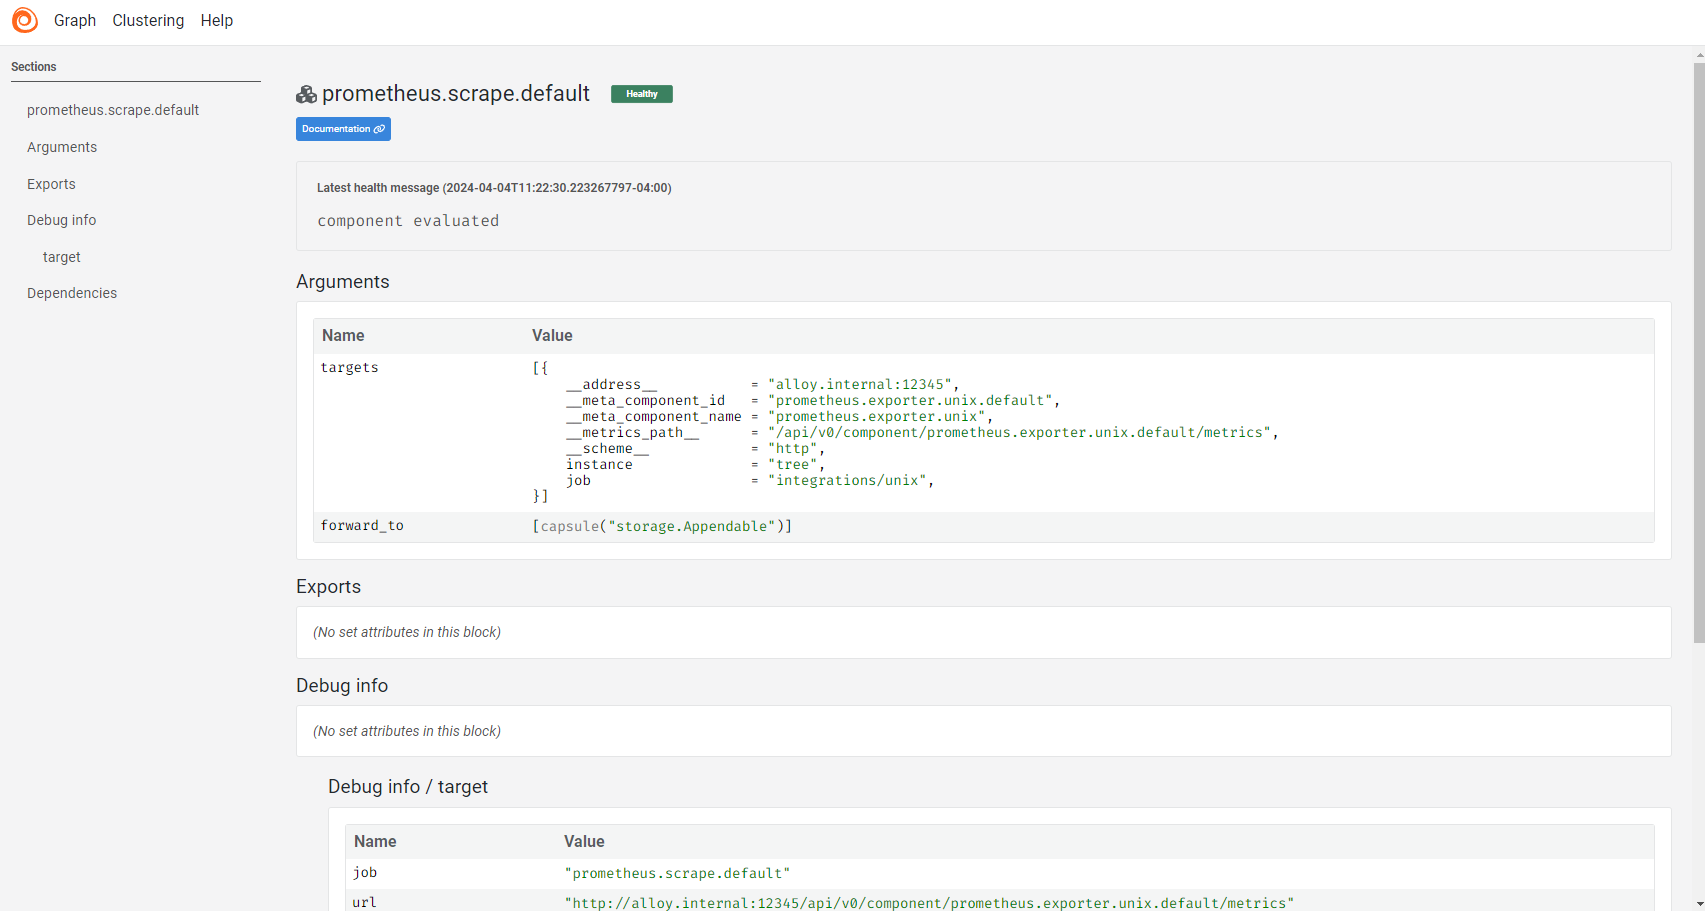
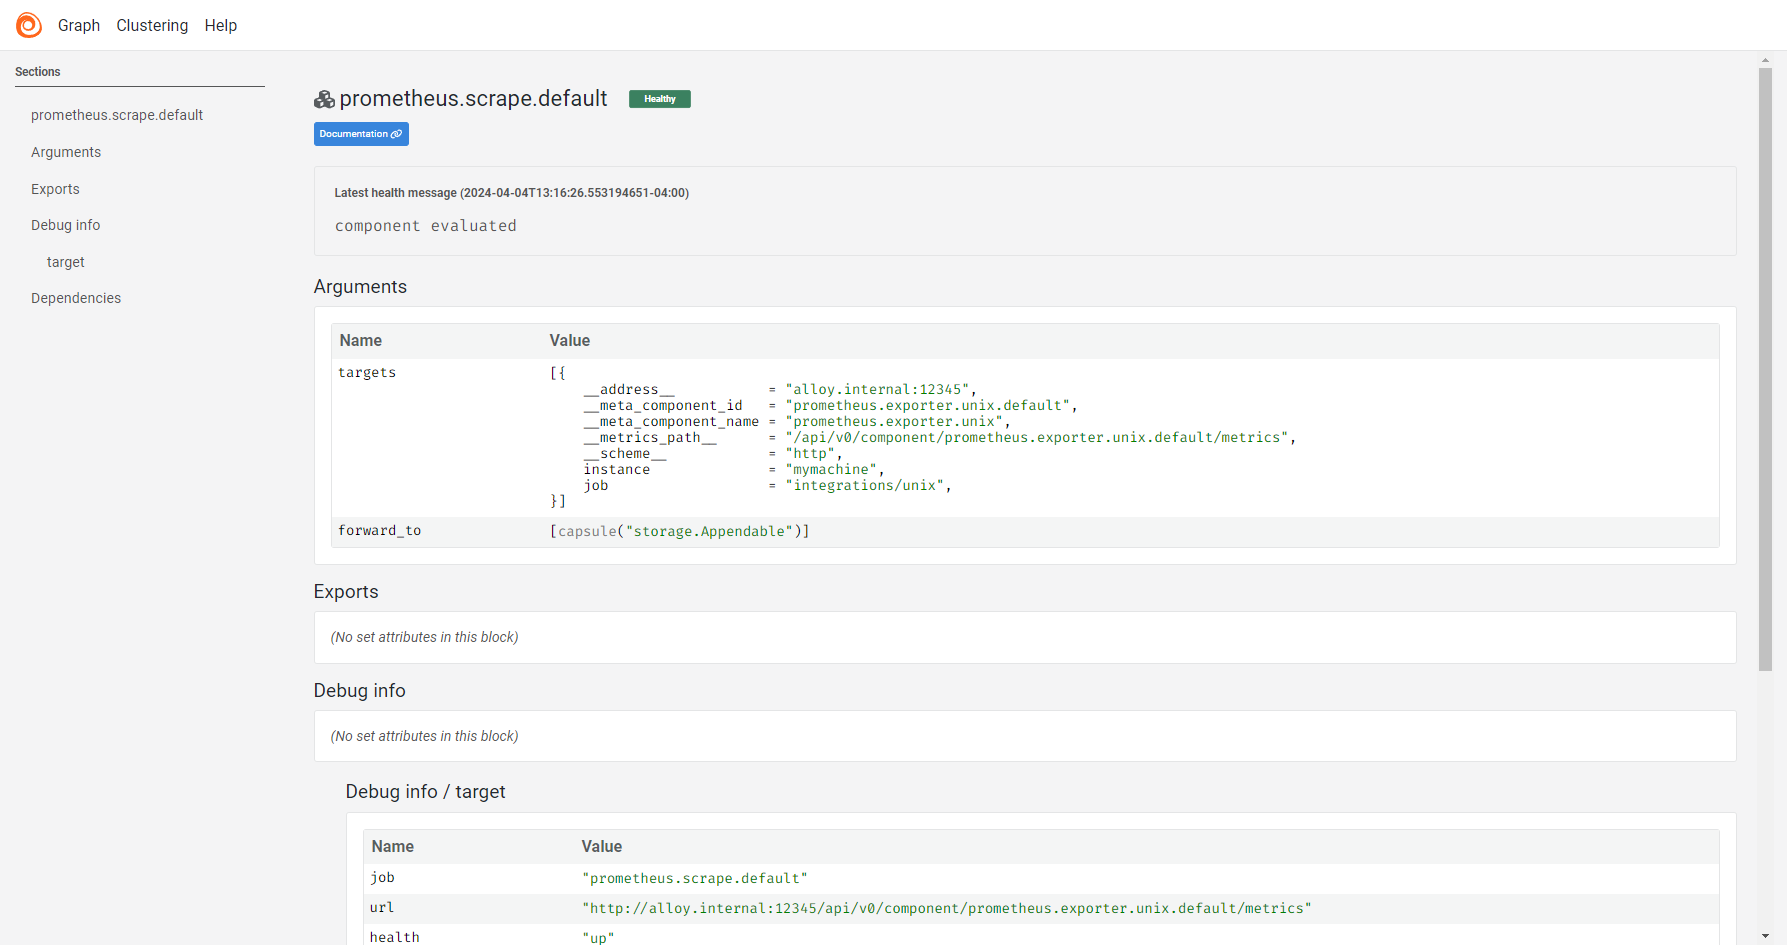
readme: update screenshot again to not trim off some of scrollbar (#116)
* readme: update screenshot again to not trim off some of scrollbar

* readme: center badges too

diff --git a/README.md b/README.md
@@ -3,7 +3,7 @@
     <img src="docs/sources/assets/logo_alloy_dark.svg#gh-light-mode-only" alt="Grafana Alloy logo" height="100px">
 </p>
 
-<p>
+<p align="center">
   <a href="https://github.com/grafana/alloy/releases"><img src="https://img.shields.io/github/release/grafana/alloy.svg" alt="Latest Release"></a>
   <a href="https://grafana.com/docs/alloy/latest"><img src="https://img.shields.io/badge/Documentation-link-blue?logo=gitbook" alt="Documentation link"></a>
 </p>
